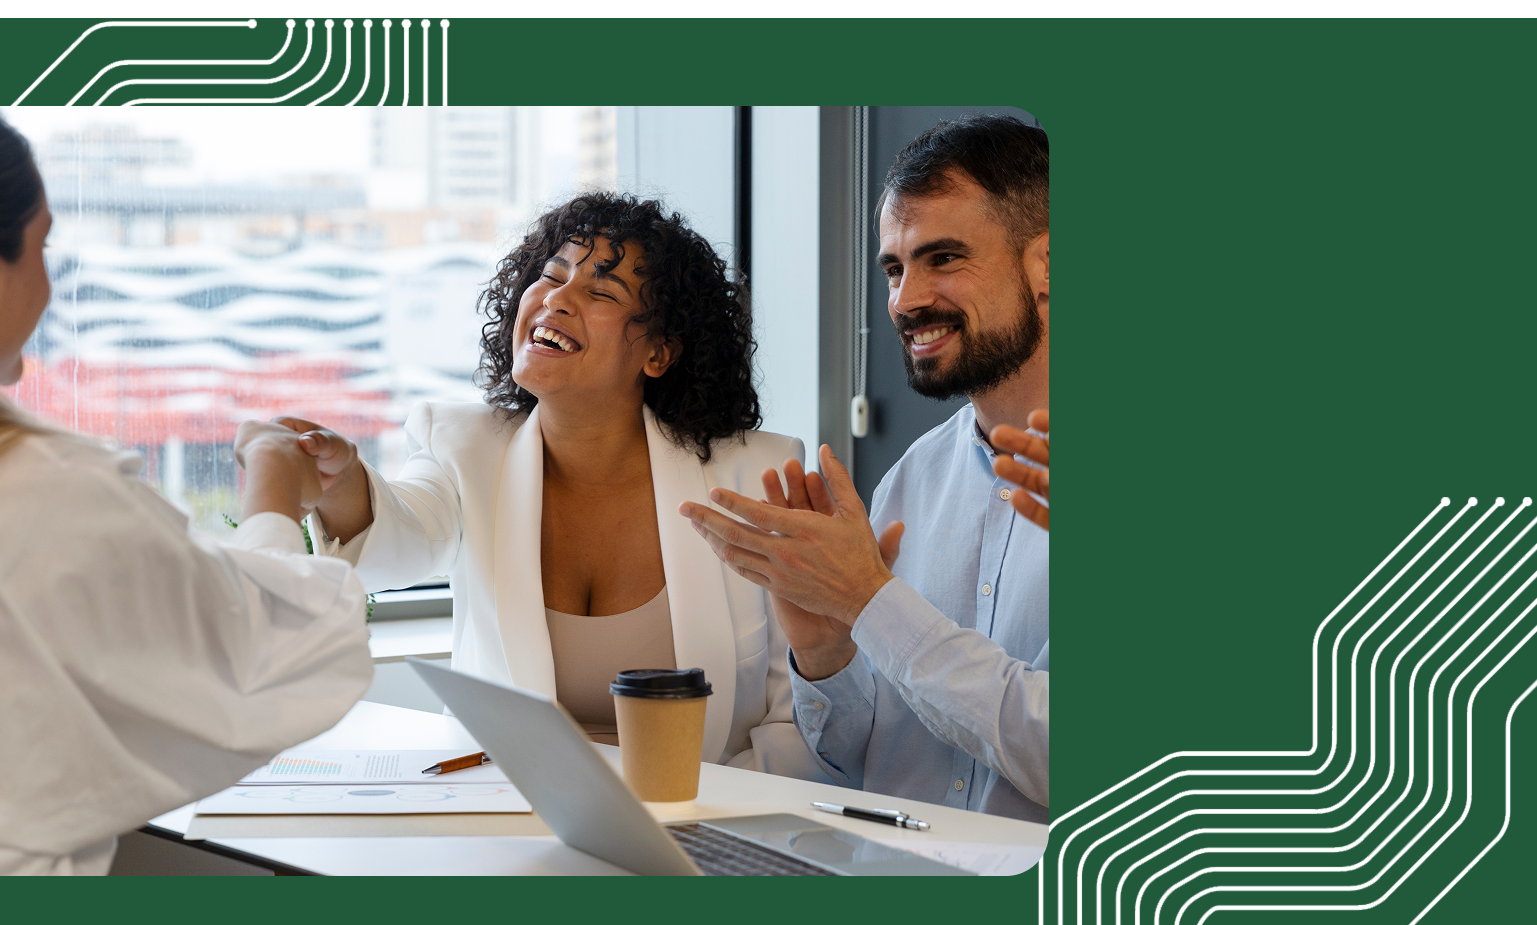
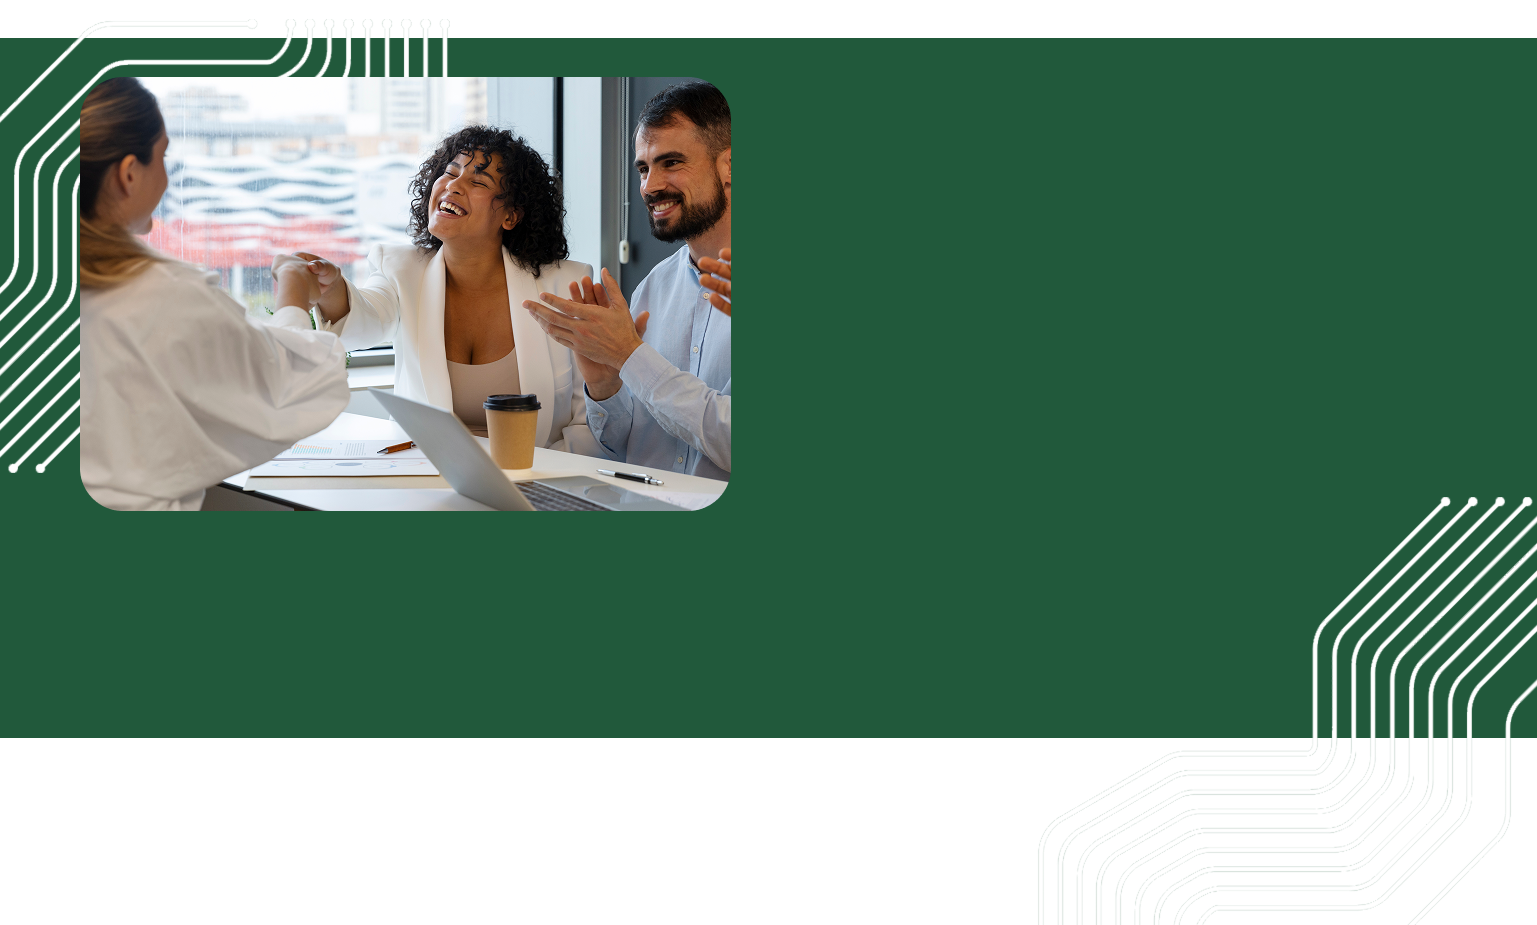
Padronizando footer e Header | Implementando setInterval no carrossel

diff --git a/Empresa/Equipe Atual/Site/html/sobre.html b/Empresa/Equipe Atual/Site/html/sobre.html
@@ -8,31 +8,29 @@
     <title>Sobre Nós - V3T</title>
   </head>
   <body>
-    <header>
-      <div id="div-img">
-        <a href="./index.html"
-          ><img id="img-header" src="../imgs/logo-preta.png"
-        /></a>
-      </div>
-      <div id="div-menu">
-        <ul>
-          <a href="./simulador.html">
-            <li>Simulador Financeiro</li>
-          </a>
-          <a href="./sobre.html">
-            <li><u>Sobre</u></li>
-          </a>
-          <a href="./contato.html">
-            <li>Contato</li>
-          </a>
-          <a href="./cadastro.html">
-            <li>Cadastro</li>
-          </a>
-          <a href="./login.html">
-            <li id="li-login">LOGIN</li>
-          </a>
-        </ul>
-      </div>
+    <header class="header">
+        <div class="div-img">
+            <a href="index.html"><img class="img-header" src="../imgs/logo-preta.png" alt="logo_V3T"></a>
+        </div>
+        <div class="div-nav">
+            <ul>
+                <a href="simulador.html">
+                    <li>Simulador Financeiro</li>
+                </a>
+                <a href="sobre.html">
+                    <li>Sobre</li>
+                </a>
+                <a href="contato.html">
+                    <li>Contato</li>
+                </a>
+                <a href="cadastro.html">
+                    <li>Cadastro </li>
+                </a>
+                <a href="login.html">
+                    <li class="btn-login">LOGIN </li>
+                </a>
+            </ul>
+        </div>
     </header>
     <div id="div-banner">
       <h2 id="titulo-sobre">Sobre <br />Nós</h2>
@@ -100,48 +98,38 @@
         </div>
       </div>
     </div>
-    <img
-      src="../imgs/logo-verdeescuro-fundobranco.png"
-      alt="Logo V3T"
-      id="img-footer"
-    />
     <footer>
-      <div id="div1-footer">
-        <ul>
-          <p><b>Mais do nosso site</b></p>
-          <li><a href="../html/simulador.html">Simulador Financeiro</a></li>
-          <li><a href="../html/sobre.html">Sobre Nós</a></li>
-          <li><a href="../html/contato.html">Contato</a></li>
-        </ul>
-      </div>
+    <a href="../html/index.html" id="img-home-footer"><img src="../imgs/logo-verdeescuro-fundobranco.png" alt="Logo V3T" id="img-footer"></a>
+    <div id="div1-footer">
+      <ul>
+        <p><b>Mais do nosso site</b></p>
+        <li><a href="../html/simulador.html">Simulador Financeiro</a></li>
+        <li><a href="../html/sobre.html">Sobre Nós</a></li>
+        <li><a href="../html/contato.html">Contato</a></li>
+      </ul>
+    </div>
 
-      <div id="div2-footer">
-        <ul>
-          <p><b>Saiba mais</b></p>
-          <li>
-            <a
-              href="https://www.embrapa.br/visao-de-futuro/transformacoes-rapidas-no-consumo-e-na-agregacao-de-valor/sinal-e-tendencia/aumento-da-importancia-das-proteinas-alternativas-a-carne"
-              >Proteína alternativa</a
-            >
-          </li>
-          <li>
-            <a
-              href="https://3dlab.com.br/impressao-3d-de-comida/?srsltid=AfmBOooqwgMb7ZuDx3uhClRiOgEhGKT9kPjeFid3_zjOZZejUufb4y94"
-              >Impressão 3D de alimentos</a
-            >
-          </li>
-        </ul>
-      </div>
+    <div id="div2-footer">
+      <ul>
+        <p><b>Saiba mais</b></p>
+        <li><a
+            href="https://www.embrapa.br/visao-de-futuro/transformacoes-rapidas-no-consumo-e-na-agregacao-de-valor/sinal-e-tendencia/aumento-da-importancia-das-proteinas-alternativas-a-carne">Proteína
+            alternativa</a></li>
+        <li><a
+            href="https://3dlab.com.br/impressao-3d-de-comida/?srsltid=AfmBOooqwgMb7ZuDx3uhClRiOgEhGKT9kPjeFid3_zjOZZejUufb4y94">Impressão
+            3D de alimentos</a></li>
+      </ul>
+    </div>
 
-      <div id="div3-footer">
-        <p><b>Crie ou entre na sua conta já!</b></p>
-        <ul>
-          <li><a href="../html/login.html">Login</a></li>
-          <li><a href="../html/cadastro.html">Cadastro</a></li>
-        </ul>
-      </div>
-    </footer>
-    <p id="marca-footer"><b>2025 - V3T</b></p>
+    <div id="div3-footer">
+      <p><b>Crie ou entre na sua conta já!</b></p>
+      <ul>
+        <li><a href="../html/login.html">Login</a></li>
+        <li><a href="../html/cadastro.html">Cadastro</a></li>
+      </ul>
+    </div>
+  </footer>
+  <p id="marca-footer"><b>2025 - V3T</b></p>
     <script src="../scripts/script-sobre.js"></script>
   </body>
 </html>

diff --git a/Empresa/Equipe Atual/Site/styles/style-sobre.css b/Empresa/Equipe Atual/Site/styles/style-sobre.css
@@ -7,46 +7,34 @@ body{
     width: 100%;
     margin: 0px;
     font-family: 'Montserrat', sans-serif; 
-    display: flex;
-    flex-direction: column;
-    justify-content: center;
-    align-items: center; 
 }
-/*Código para o header*/
-header {
+/* Estilização do Header*/
+.header {
     width: 100%;
     height: 100px;
-    margin: 0px;
+    margin-top: 0px;
     display: flex;
     background-color: white;
     align-items: center;
     position: fixed;
     top: 0;
-    left: 0;
-
+    transition: 0.3s;
 }
-
-header ul {
+.header ul {
     list-style: none;
     display: flex;
 }
 
-header li {
-    font-weight: bold;
-    padding-left: 20px;
-    padding-right: 20px;
-    padding-top: 10px;
-    padding-bottom: 10px;
+.header li {
+    padding: 10px 20px;
 }
 
-#div-img {
+.div-img {
     width: 20%;
     justify-items: center;
 }
 
-
-#div-menu {
-
+.div-nav {
     width: 80%;
     justify-items: end;
     align-items: center;
@@ -54,34 +42,47 @@ header li {
     margin-right: 30px;
 }
 
-#li-login {
+.btn-login {
     font-weight: normal;
     color: white;
     background-color: #21593B;
     border-radius: 20px;
+    transition: all 0.2s ease;
 }
 
-#li-login:hover {
+.btn-login:hover {
     transform: scale(1.1);
     background-color: #00BF63;
-    text-decoration: none;
 }
 
+/*Hover sublinhando apenas os direcionadores*/
 a {
     color: black;
+    font-weight: bold;
     text-decoration: none;
 }
 
-a:hover{
+a:nth-of-type(1):hover {
     text-decoration: underline;
-    scale: 95%;
 }
+
+a:nth-of-type(2):hover {
+    text-decoration: underline;
+}
+
+a:nth-of-type(3):hover {
+    text-decoration: underline;
+}
+
+a:nth-of-type(4):hover {
+    text-decoration: underline;
+}
+
 /*Fim header*/
 #div-banner{
     height: 700px;
     background-repeat: no-repeat;
     background-size: cover;
-    width: 95%;
     border-radius: 30px;
     margin-top: 40px;
     background-image: url(../imgs/sobre-banner.png);
@@ -104,7 +105,7 @@ a:hover{
     background-color: white;
     align-self: flex-end;
     justify-self: center;
-    margin-right: 45px;
+    margin-right: 90px;
     margin-bottom: 45px;
     border-radius: 30px;
     font-size: 25px;
@@ -117,7 +118,7 @@ a:hover{
 .div-valores{
     margin-top: 15px;
     width: 95%;
-    height: 650px;
+    height: 500px;
     border-radius: 30px;
     background-color: white;
     display: flex;
@@ -133,10 +134,9 @@ a:hover{
 }
 .div-texto-valores p{
     align-self: center;
-    width: 70%;
+    width: 75%;
     color: black;
-   
-    font-size: 35px;
+    font-size: 25px;
 }
 .div-texto-valores {
     width: 50%;
@@ -234,22 +234,28 @@ a:hover{
     background-color: black;
 }
 
-/* Código para o footer */
 footer{
+    margin-top: 15px;
     display: flex;
     flex: 1;
     justify-content: space-between;
     margin-left: 50px;
     margin-right: 50px;
+    margin-top: 20px;
     padding-left: 15px;
     padding-right: 100px;
+    font-size: 15px;
 }
 
 #img-footer{
     width: 90px;
-    height: auto;
+    height: 75px;
     margin-left: 20px;
-    margin-top: 20px;
+    margin-top: 0px;
+}
+
+#img-home-footer{
+    align-self: center;
 }
 
 footer ul{
@@ -259,10 +265,14 @@ footer li:hover{
     scale: 105%;
     text-decoration: underline;
     border-radius: 20px;
+    font-weight: normal;
 }
 
 #marca-footer{
-    font-size: 15px;
+    font-size: 10px;
     justify-self: center;
-    padding-top: 10px;
+}
+
+footer a {
+    font-weight: normal;
 }

diff --git a/Empresa/Equipe Atual/Site/scripts/script-sobre.js b/Empresa/Equipe Atual/Site/scripts/script-sobre.js
@@ -70,3 +70,5 @@ var valores =
         }
 
     }
+
+    setInterval(direitaCarrossel,5000);
